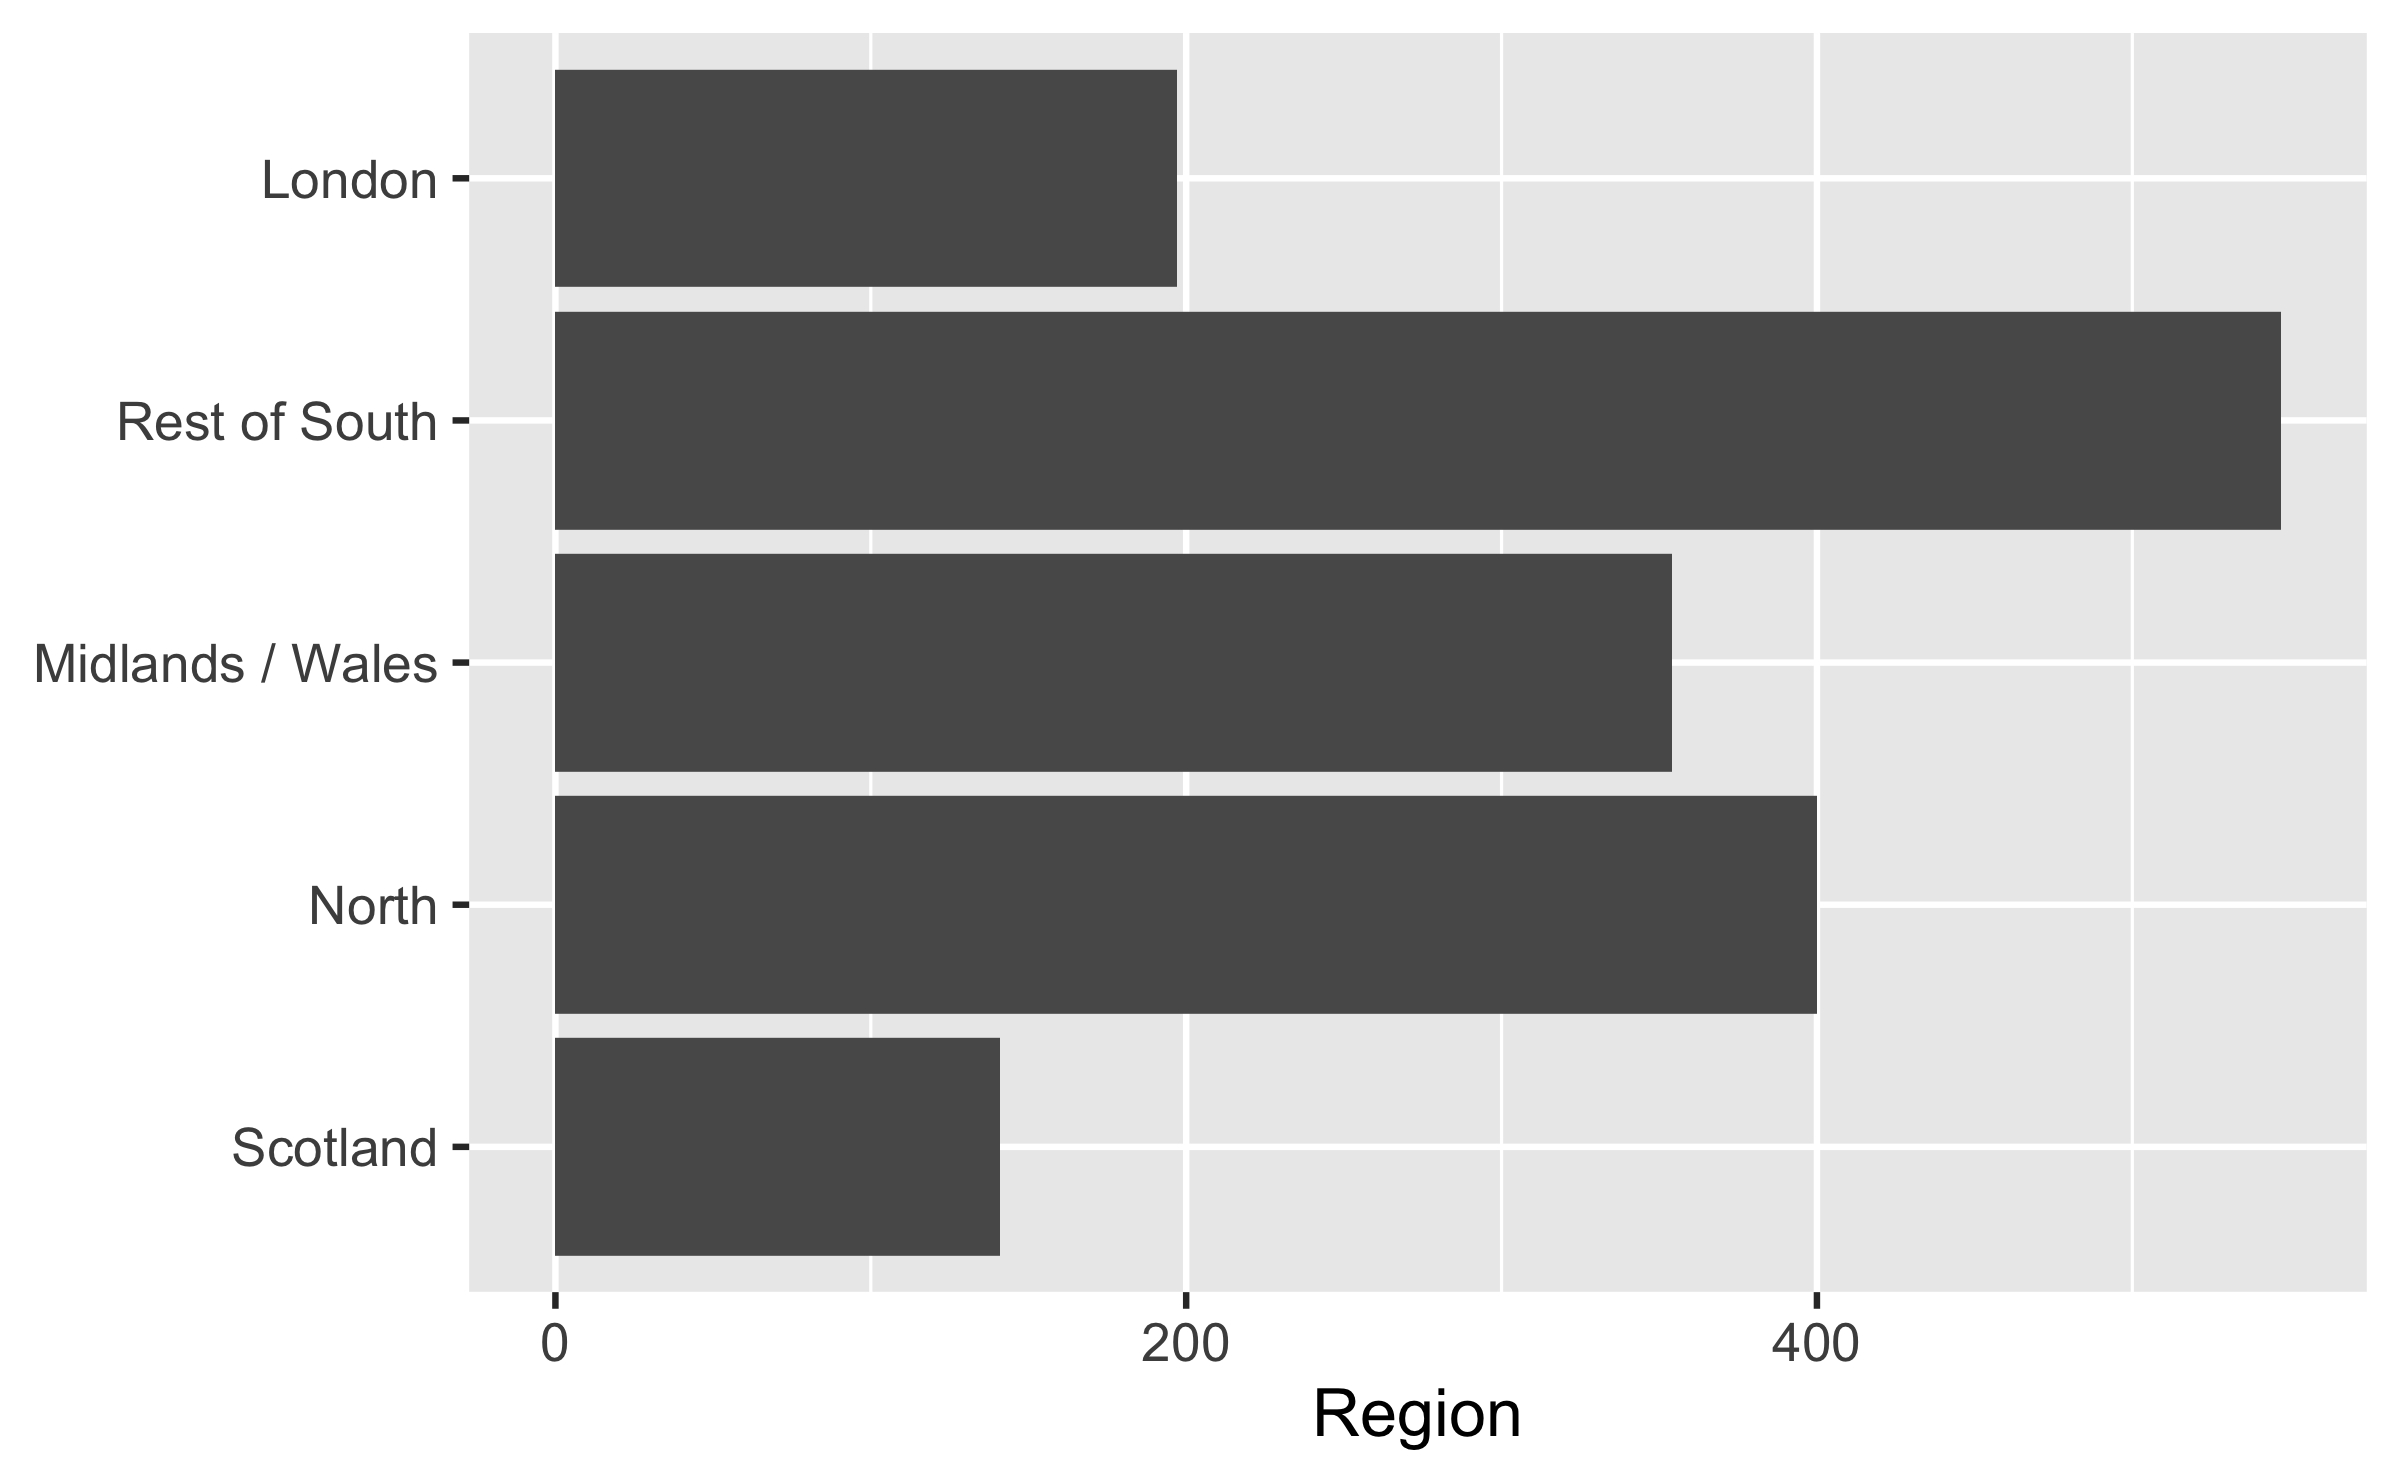
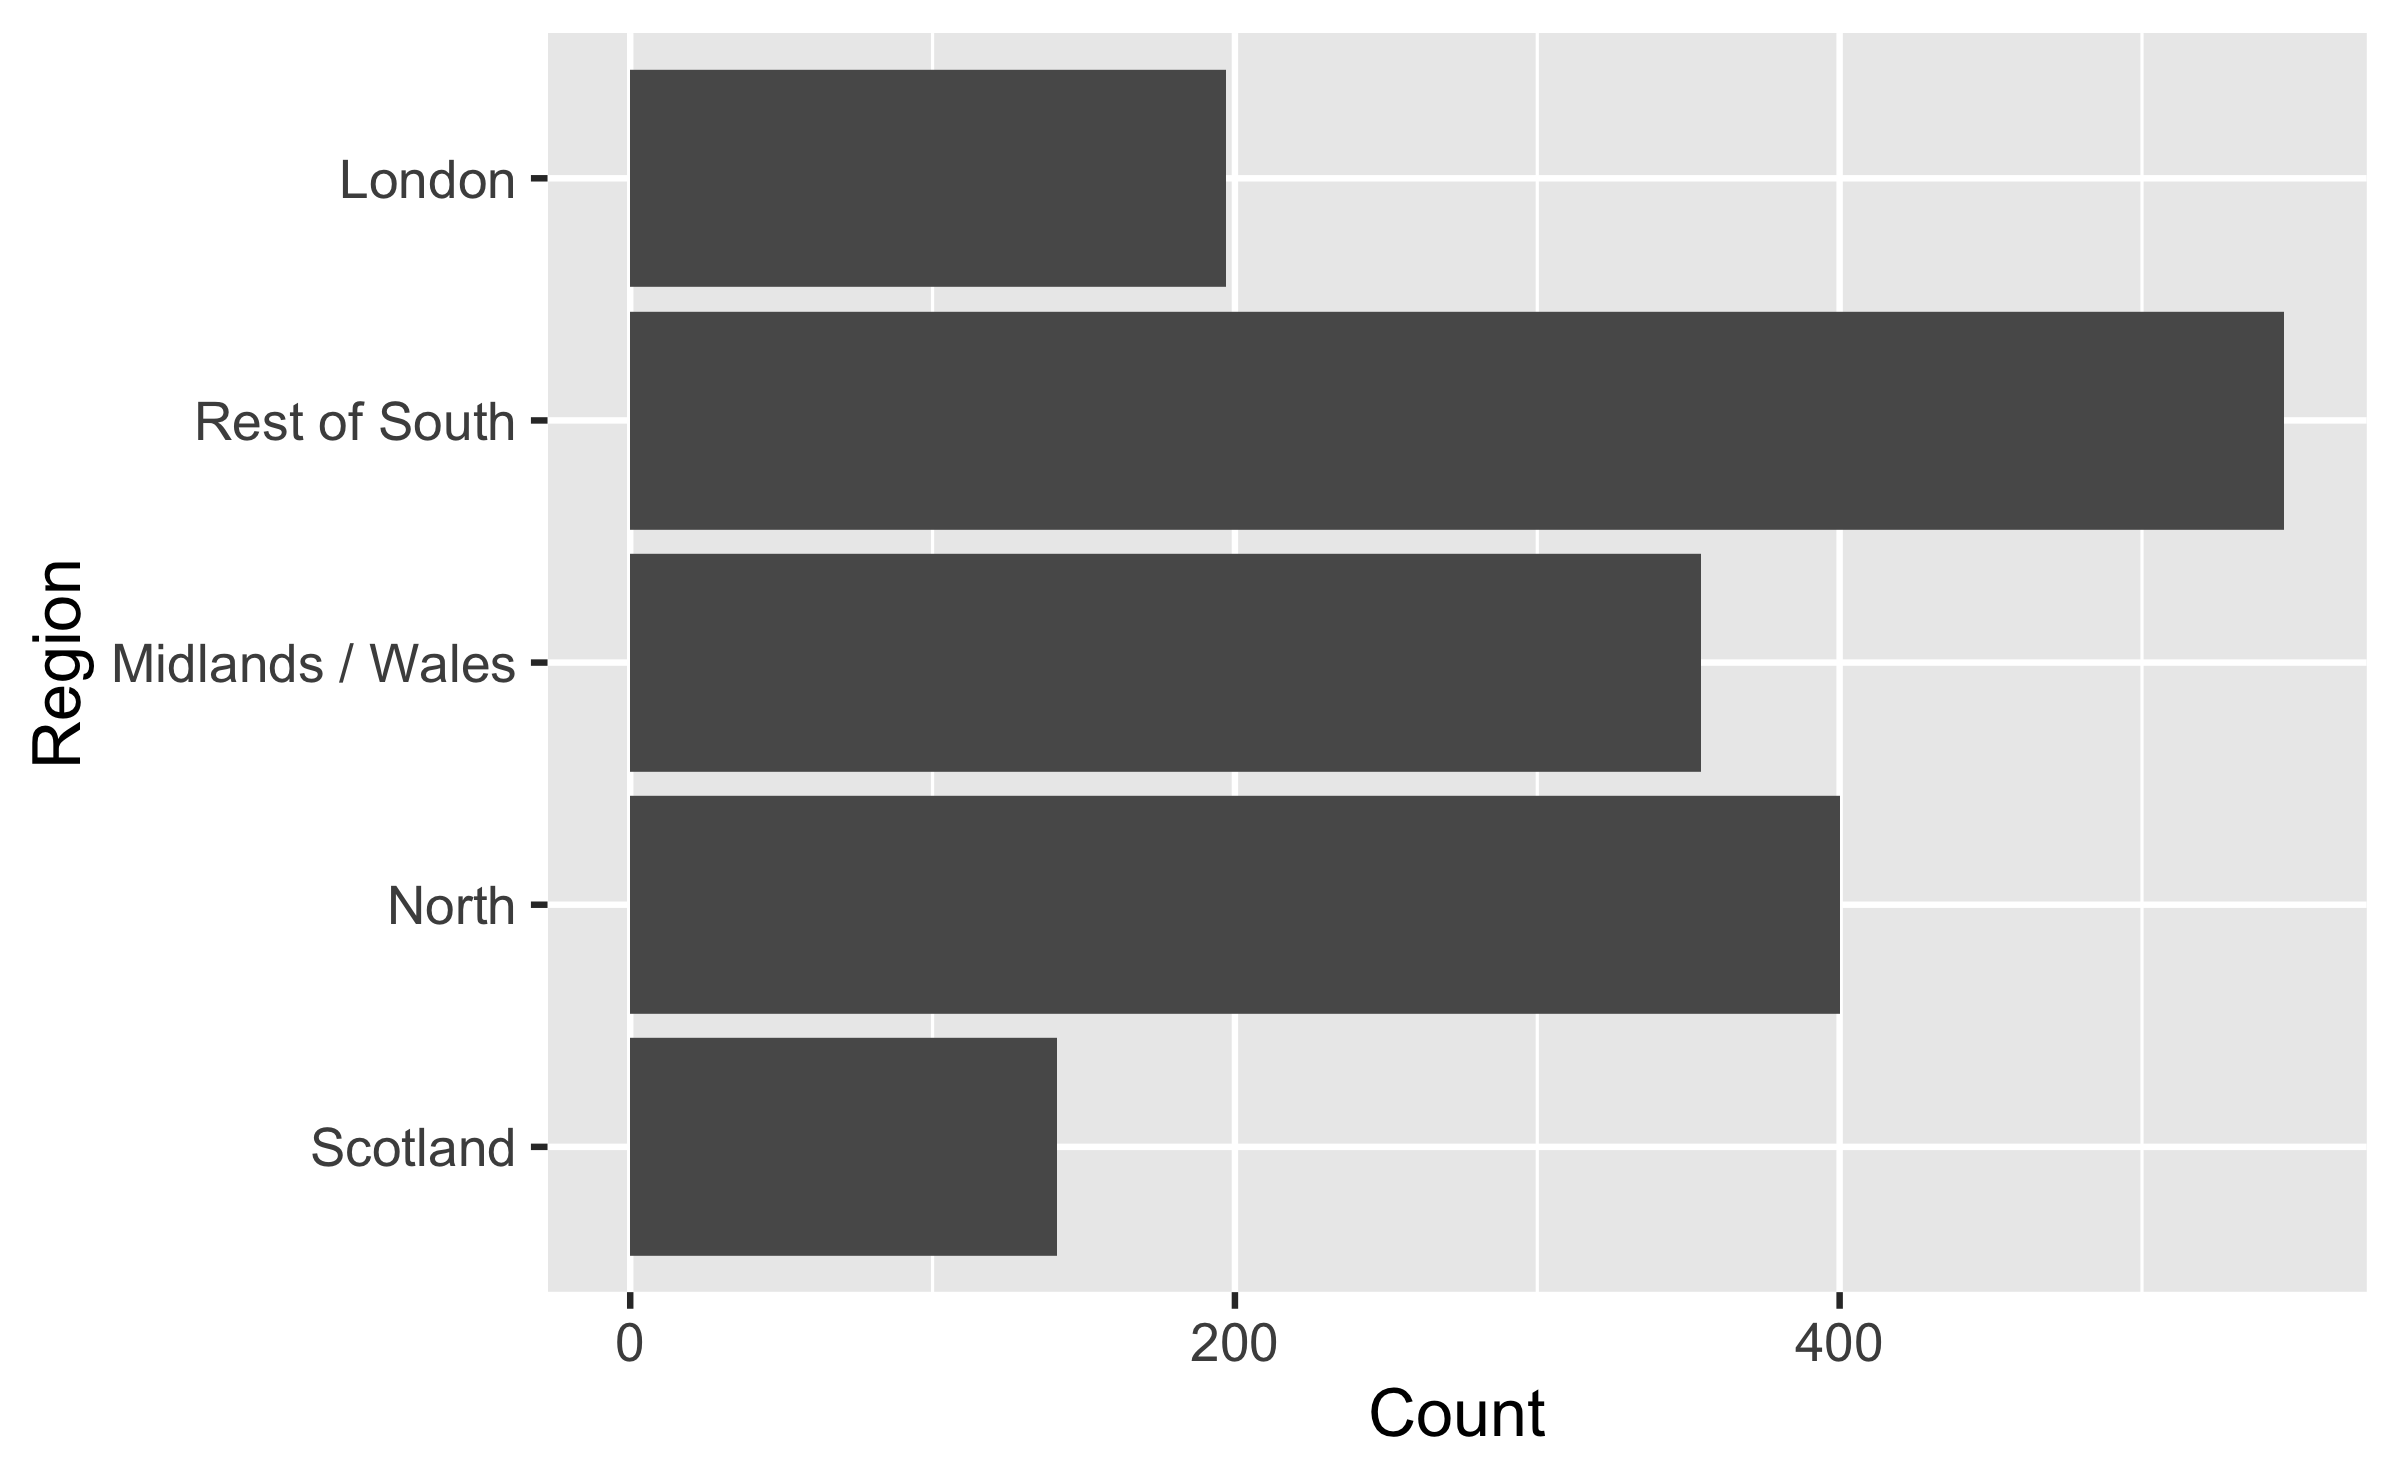
Fix plots

diff --git a/week-05/w5-d02-effective-dataviz/w5-d02-effective-dataviz.html b/week-05/w5-d02-effective-dataviz/w5-d02-effective-dataviz.html
@@ -345,8 +345,8 @@ class: middle
 ggplot(brexit, aes(y = fct_rev(region))) +
   geom_bar() +
 * labs(
-*   x = "Region",
-*   y = NULL
+*   x = "Count",
+*   y = "Region"
 * )
 ```
 ]
